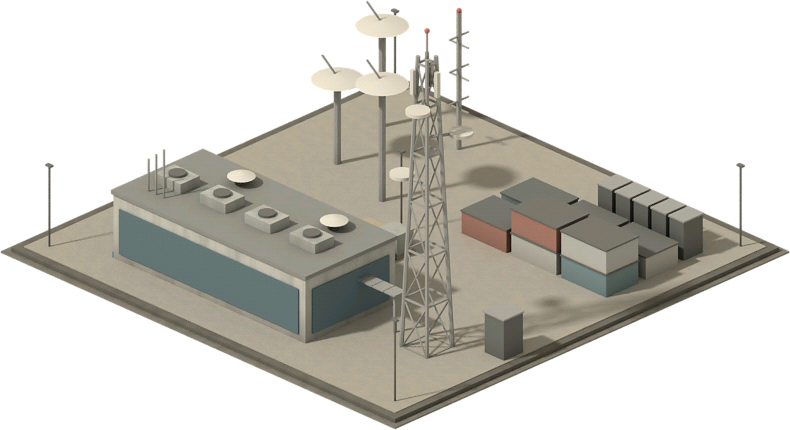
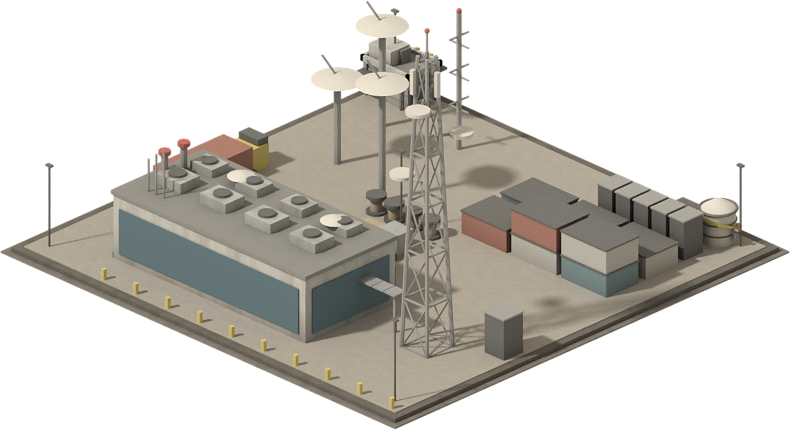
AI防衛システム工場を12×12に拡大して複雑に、発電設備のロゴを外す、通信機器工場の小物を追加
Claude-Session: https://claude.ai/code/session_018rzwRr8JkDqqPcQLfX2TTK

diff --git a/data/map.js b/data/map.js
@@ -37,7 +37,7 @@ window.GAME_DATA.map = {
     steelMill: [12, 12], aluminumSmelter: [6, 6], copperSmelter: [4, 4], kiln: [4, 4], sawmill: [4, 4], paperMill: [4, 4],
     detergentFactory: [4, 4], garmentFactory: [4, 4], buildmatFactory: [6, 6],
     carFactory: [7, 5], shipyard: [5, 8], aircraftFactory: [6, 5], semiconductorFactory: [6, 6], pcFactory: [7, 6], evFactory: [8, 8], pharmaFactory: [6, 5],
-    rocketFactory: [6, 6], munitionsFactory: [7, 8], fineChemPlant: [6, 5], explosivesFactory: [6, 6], colonyFactory: [12, 12], offshoreFactory: [10, 10], cableFactory: [6, 5], fiberFactory: [5, 5], motorFactory: [7, 6], powerEquipFactory: [9, 8], commGearFactory: [6, 6], satelliteFactory: [8, 8], aiDefenseFactory: [9, 9],   // NT に無い型（手続き描画 js/sprites2.js）は小さめ
+    rocketFactory: [6, 6], munitionsFactory: [7, 8], fineChemPlant: [6, 5], explosivesFactory: [6, 6], colonyFactory: [12, 12], offshoreFactory: [10, 10], cableFactory: [6, 5], fiberFactory: [5, 5], motorFactory: [7, 6], powerEquipFactory: [9, 8], commGearFactory: [6, 6], satelliteFactory: [8, 8], aiDefenseFactory: [12, 12],   // NT に無い型（手続き描画 js/sprites2.js）は小さめ
     powerPlant: [8, 8], researchLab: [4, 4], warehouse_bulk: [4, 4], warehouse_goods: [4, 4]
   }
 };

diff --git a/data/sprites_bl.js b/data/sprites_bl.js
@@ -3200,44 +3200,44 @@ window.GAME_DATA.spritesBL = {
   ]
  },
  "aiDefenseFactory": {
-  "fw": 9,
-  "fd": 9,
+  "fw": 12,
+  "fd": 12,
   "r": [
    {
     "file": "../assets/bl/aiDefenseFactory_r0.png",
-    "w": 587.0,
-    "h": 290.0,
-    "ax": 293.5,
-    "ay": 155.6,
-    "fw": 9,
-    "fd": 9
+    "w": 779.0,
+    "h": 476.5,
+    "ax": 389.5,
+    "ay": 299.1,
+    "fw": 12,
+    "fd": 12
    },
    {
     "file": "../assets/bl/aiDefenseFactory_r1.png",
-    "w": 587.0,
-    "h": 291.5,
-    "ax": 293.5,
-    "ay": 157.1,
-    "fw": 9,
-    "fd": 9
+    "w": 779.0,
+    "h": 413.5,
+    "ax": 389.5,
+    "ay": 236.1,
+    "fw": 12,
+    "fd": 12
    },
    {
     "file": "../assets/bl/aiDefenseFactory_r2.png",
-    "w": 587.0,
-    "h": 334.0,
-    "ax": 293.5,
-    "ay": 199.6,
-    "fw": 9,
-    "fd": 9
+    "w": 779.0,
+    "h": 414.0,
+    "ax": 389.5,
+    "ay": 236.6,
+    "fw": 12,
+    "fd": 12
    },
    {
     "file": "../assets/bl/aiDefenseFactory_r3.png",
-    "w": 587.0,
-    "h": 308.0,
-    "ax": 293.5,
-    "ay": 173.6,
-    "fw": 9,
-    "fd": 9
+    "w": 779.0,
+    "h": 448.5,
+    "ax": 389.5,
+    "ay": 271.1,
+    "fw": 12,
+    "fd": 12
    }
   ]
  },

diff --git a/js/sprites.js b/js/sprites.js
@@ -43,7 +43,7 @@
     powerEquipFactory: { color: '#a9b8ad', h: 16 },
     commGearFactory:  { color: '#b7c9d6', h: 26, glass: true },
     satelliteFactory: { color: '#e3e8ec', h: 22, glass: true, clean: true },
-    aiDefenseFactory: { color: '#7d8a9a', h: 16, bunker: true, glass: true }
+    aiDefenseFactory: { color: '#7d8a9a', h: 34, bunker: true, glass: true }
   };
   const TANKCOL = { crudeTank: '#7a5a3a', tank_gasoline: '#e0b84a', tank_diesel: '#4f86b8', tank_naphtha: '#9a6fb8', tank_heavy: '#4a4540' };
 
